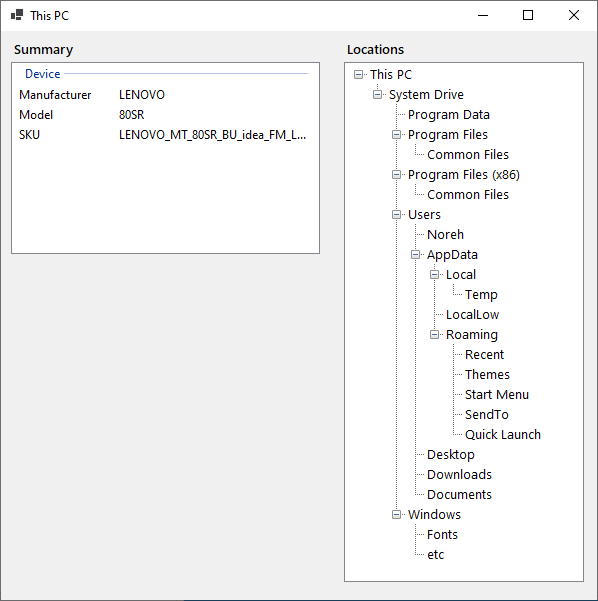
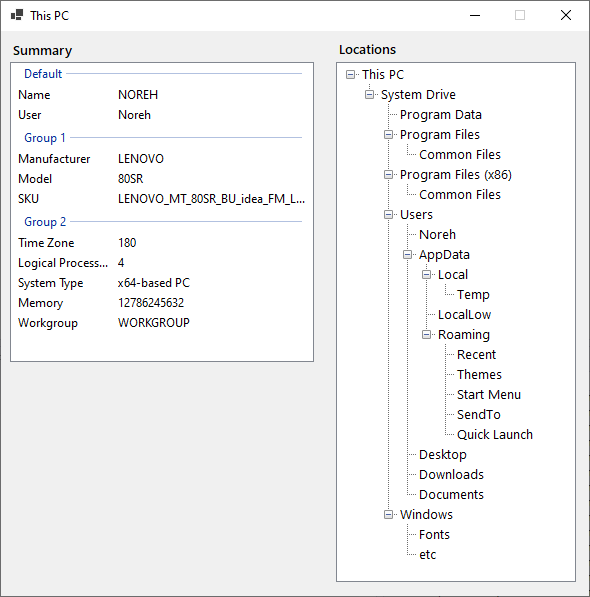
more summary vars/options

diff --git a/Summary.cs b/Summary.cs
@@ -23,11 +23,16 @@ public static class Summary
     {
         Dictionary<string, string> varPropMap = new Dictionary<string, string>
         {
-            {"%Manufacturer%",  "Manufacturer"},
-            {"%Model%",         "Model"},
-            {"%SKU%",           "SystemSKUNumber"},
-            {"%Name%",          "Name"},
-            {"%User%",          "PrimaryOwnerName"},
+            {"%Manufacturer%",      "Manufacturer"},
+            {"%Model%",             "Model"},
+            {"%SKU%",               "SystemSKUNumber"},
+            {"%Name%",              "Name"},
+            {"%User%",              "PrimaryOwnerName"},
+            {"%TimeZone%",          "CurrentTimeZone"},
+            {"%LogicalProcessors%", "NumberOfLogicalProcessors"},
+            {"%SystemType%",        "SystemType"},
+            {"%Memory%",            "TotalPhysicalMemory"},
+            {"%Workgroup%",         "Workgroup"},
         };
         List<string> usedProps = new List<string>();
         foreach (var item in varPropMap)

diff --git a/Form1.Designer.cs b/Form1.Designer.cs
@@ -76,7 +76,7 @@
             this.SummaryListView.Location = new System.Drawing.Point(9, 31);
             this.SummaryListView.Margin = new System.Windows.Forms.Padding(0);
             this.SummaryListView.Name = "SummaryListView";
-            this.SummaryListView.Size = new System.Drawing.Size(304, 200);
+            this.SummaryListView.Size = new System.Drawing.Size(304, 300);
             this.SummaryListView.TabIndex = 13;
             this.SummaryListView.UseCompatibleStateImageBehavior = false;
             this.SummaryListView.View = System.Windows.Forms.View.Details;
